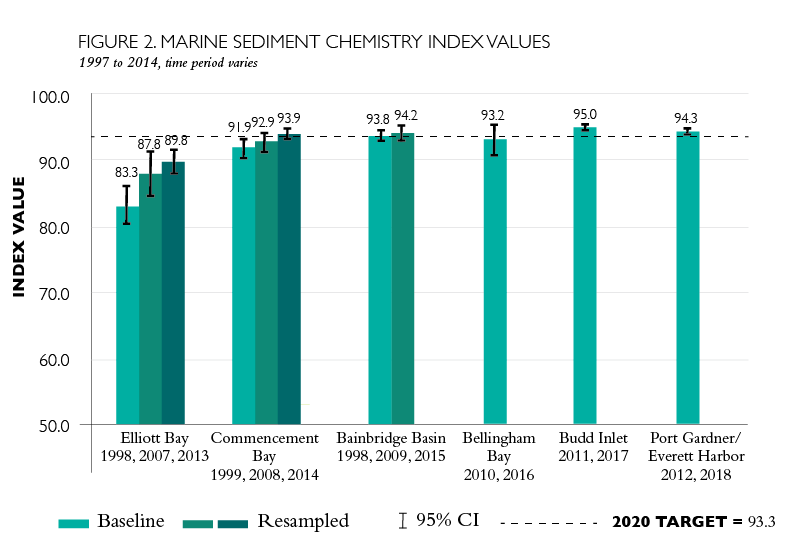
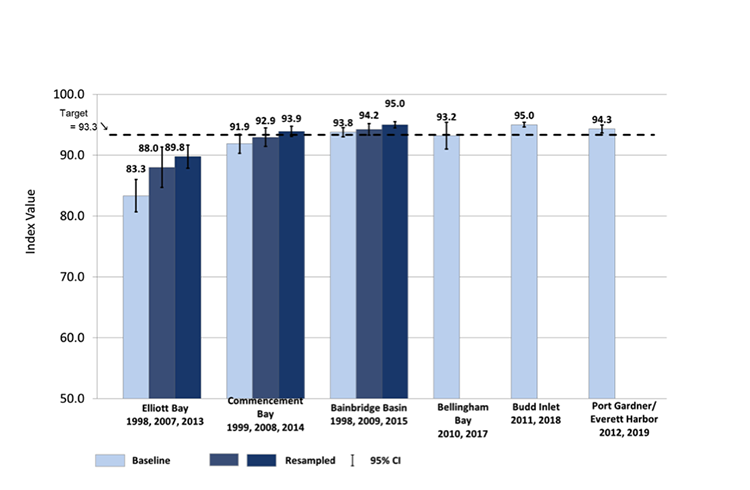
updates

diff --git a/includes/indicator_menu_test.html b/includes/indicator_menu_test.html
@@ -34,7 +34,6 @@ function MM_jumpMenu(targ,selObj,restore){ //v3.0
 			<option value="http://www.psp.wa.gov/vitalsigns/shoreline_armoring.php">Shoreline Armoring</option>
 			<option value="http://www.psp.wa.gov/vitalsigns/sound_behavior_index.php">Sound Stewardship</option>
 			<option value="http://www.psp.wa.gov/vitalsigns/summer_stream_flows.php">Summer Stream Flows</option>
-			<option value="http://www.psp.wa.gov/vitalsigns/swimming_beaches.php">Swimming Beaches</option>
 			<option value="http://www.psp.wa.gov/vitalsigns/toxics_in_fish.php">Toxics in Fish</option>
 		</select>
 	</form>

diff --git a/includes/marine_sediment_quality-title.html b/includes/marine_sediment_quality-title.html
@@ -11,7 +11,7 @@
 			</div>
 		</div>
 		<div id="vitalheaderrightphoto">
-			<div class="photoCredit">Data last updated on August 11, 2016<br />
+			<div class="photoCredit">Data last updated on Julne 28, 2017<br />
 			Photo Credit: Department of Ecology</div></div>
 	</div>
 	<div id="roundcornerbottom"><img src="img/rounded_rounded_bottom.jpg" width="960" height="20" /></div>

diff --git a/marine_sediment_quality_indicator1.php b/marine_sediment_quality_indicator1.php
@@ -43,11 +43,13 @@ $(function() {
 			<div> 
 				<!--*********************************AQUA HEADER*********************************-->
 				<div class="aquaBarHeader">What is the indicator? </div>
-				<h4 class="aqua">This indicator is the Sediment Chemistry Index.</h4>
-				<p>The Sediment Chemistry Index (SCI) is one component of the Sediment Quality Triad Index (SQTI), one of the other indicators for this Vital Sign. It combines data on the concentrations of a variety of chemicals for which state Sediment Quality Standards Chemical Criteria have been set into an overall index of chemical exposure (Table 1). Contaminants measured as part of the SCI include metals, polychlorinated biphenyls (PCBs), polynuclear aromatic hydrocarbons (PAHs), polybrominated diphenyl ethers (PBDEs – flame retardants), chlorinated pesticides, phthalates, some solvents, and various other pollutants. Higher index values indicate less exposure to chemicals and thus healthier sediments (Table 1).</p>
-<p>Analyses for newer chemicals of concern, such as dioxins, furans, endocrine disrupting chemicals, pharmaceuticals, personal care products, and perfluorinated chemicals, are not conducted as part of the Puget Sound Ecosystem Monitoring Program sediment component, and therefore not included in these Sediment Quality Dashboard Indicators.</p>
-<p>Tracking the SCI gives an indication of how concentrations of those chemicals in marine sediments change over time, primarily in response to anthropogenic input, such as stormwater runoff and direct discharge, as well as cleanup activities and passive burial as cleaner sediments settle over older, and sometimes more contaminated, sediments.</p>
-<h5>TABLE 1. CATEGORIES OF EXPOSURE TO CHEMICALS AND ASSOCIATED INDEX VALUES</h5>
+				<p>This indicator is the Sediment Chemistry Index.</p>
+				 <p>The Sediment Chemistry Index (SCI) is one component of the Sediment Quality Triad Index (SQTI), one of the other indicators for this Vital Sign. It combines data on the concentrations of 39 of 47 chemicals for which state Sediment Quality Standards Chemical Criteria have been set into an overall index of chemical exposure (Table 1). Contaminants measured that contribute to the SCI include metals, polychlorinated biphenyls (PCBs), polynuclear aromatic hydrocarbons (PAHs), phthalates, and various other pollutants. Higher index values indicate less exposure to chemicals and thus healthier sediments (Table 1).</p>
+				  <p>Results from other chemicals of concern, such as polybrominated diphenyl ethers (PBDEs), pesticides, dioxins, furans, endocrine disrupting chemicals, pharmaceuticals, personal care products, and perfluorinated chemicals, for which either no state Sediment Quality Standards have been set or measurements were not taken, are not incorporated into the SCI.</p>
+				  <p>Tracking the SCI gives an indication of how concentrations of selected chemicals in marine sediments change over time, primarily in response to anthropogenic input, such as stormwater runoff and direct discharge, as well as cleanup activities and passive burial as cleaner sediments settle over older, and sometimes more contaminated, sediments.</p>
+<h4 class="aqua">&nbsp;</h4>
+				<h3>TABLE 1.</h3> 
+				<h4>CATEGORIES OF EXPOSURE TO CHEMICALS AND ASSOCIATED INDEX VALUES</h4>
 
 				<img src="images/toxics_in_sediment_table_1.png" width="347" height="238" alt="Categories of exposure to chemicals and associated index values"/>
 				<h4 class="aqua">&nbsp;</h4>
@@ -55,14 +57,10 @@ $(function() {
 				<!--*********************************AQUA HEADER*********************************-->
 				<div class="aquaBarHeader">What are the targets? </div>
 				<h5>2020 target</h5>
-				<h4 class="aqua">Sediment Chemistry Index</h4>
-				<p>By 2020, all Puget Sound regions and bays achieve chemistry measures reflecting “minimum exposure” with Sediment Chemistry Index (SCI) scores >93.3.</p>
-				<h5><a href="http://www.psp.wa.gov/downloads/interimtargets/Marine Sediment Quality Interim Targets -FINAL.pdf">Interim targets (PDF)</a></h5>
+				<p>All Puget Sound regions and bays, as characterized by ambient monitoring, will achieve chemistry measures reflecting &ldquo;minimum exposure&rdquo; with the Sediment Chemistry Index (SCI) scores (i.e.,  SCI values &gt;93.3). </p>
+
                 <h5>Interim Targets:</h5>
-                <p>2014 Interim target:</p>
-<ol><li>All regions meet marine sediment targets for SCI.</li>
-<li>SCI conditions in Elliott Bay improved relative to 2007.</li>
-<li>Target conditions in Commencement Bay met in 2014.</li></ol>
+              <h5><a href="http://www.psp.wa.gov/downloads/interimtargets/Marine%20Sediment%20Quality%20Interim%20Targets%20-FINAL.pdf">Interim targets (PDF)</a></h5>
 
 			
 			</div>
@@ -74,23 +72,24 @@ $(function() {
 				<h5>Is the indicator making progress toward the 2020 target? </h5>
                 <p> <span><img src="images/status_not_changing.png" width="118" height="121" alt=""/>There was no significant trend for this indicator.</p>
                 <p>Overall, sediments in Puget Sound have been and continue to be in generally good condition with regard to the measured set of chemicals, except in Elliott Bay near Seattle. </p>
+<h5>Did the indicator meet its 2016 interim target?</h5>
+<ul>
+  <li>Sediment Chemistry Index scores for all regions, and most bays continue to meet or exceed the target value.  Since 1997, all of the eight sampled regions and five of six urban bays met the SCI target value, and index values in most areas changed little since the late 1990s.</li>
+  <li>SCI scores have improved incrementally and significantly in Elliott Bay since 1998, but not enough to reach the target value.  </li>
+  <li>Commencement Bay SCI scores have increased over time and are above the target value.</li>
+  <li>SCI scores for Bainbridge Basin increased slightly between 2009 and 2015, and the target value continues to be met.</li>
+  <li>Sampling in 2016 in Bellingham Bay was delayed until 2017, so 2016 SCI target conditions cannot be evaluated until 2018.  </li>
+</ul>
+<p>Given that sediment contamination generally changes very slowly, we expect most areas currently meeting the target to continue to do so through 2020 unless contaminant inputs to the areas increase. It is possible that the target may eventually be reached in Elliott Bay if conditions there continue to improve.<!-- TABLE 1 -->			</p>
 
-<h5>Did the indicator meet its 2014 interim target?</h5>
-<p>Because all the regions and Commencement Bay met their target values, except for Elliott Bay, which did not improve enough, the interim targets are only partly met.</p>
-<ol><li>Sediment Chemistry Index scores for all regions, and most bays either meet or exceed the target value.</li>
-<li>Since 1997, all of the eight sampled regions and five of six urban bays met the Sediment Chemistry Index (SCI) target value, and index values in most areas changed little since the late 1990s.</li>
-<li>Conditions have improved significantly in Elliott Bay since 1998, but not enough to reach the target value. Although the index value is slightly higher in 2013 than in 2007 in Elliott Bay, the difference is not statistically significant.</li>
-<li>The value measured for Admiralty Inlet dropped significantly when resampled in 2014, but still remained above the target value.</li>
-<li>The values for Commencement Bay increased slightly between 2008 and 2014, and the target value is not met.</li></ol>
-<p>Given that sediment contamination generally changes very slowly, we expect most areas currently meeting the target to continue to do so through 2020 unless contaminant inputs to the areas increase. It is possible that the target may eventually be reached in Elliott Bay if conditions there continue to improve.</p>
-<!-- TABLE 1 -->
-				<table width="600" border="1" cellspacing="0" cellpadding="0" class="vstable">
-					<caption>
-					TABLE 2. PROGRESS TOWARD 2014 INTERIM TARGET
-					</caption>
-					<thead>
+<h3>
+				TABLE 2.</h3> <h4>PROGRESS TOWARD 2016 INTERIM TARGET
+	</h4>
+<table width="600" border="1" cellspacing="0" cellpadding="0" class="vstable">
+			
+		  <thead>
 						<tr>
-							<th>2014 INTERIM TARGET</th>
+							<th>2016 INTERIM TARGET</th>
 							<th>WAS IT MET?</th>
 							<th>EXPLANATION</th>
 						</tr>
@@ -99,34 +98,38 @@ $(function() {
 						<tr>
 							<td>All regions meet marine sediment targets for SCI.</td>
 							<td>Yes</td>
-							<td>All regions met the target values for SCI in their last round of sampling, as well as all those prior.</td>
+							<td>All regions met the target value for SCI in their last round of sampling, as well as in the Baseline sampling.</td>
 						</tr>
                         <tr>
-							<td>SCI conditions in Elliott Bay improved relative to 2007.</td>
-							<td>No</td>
-							<td>Elliot Bay index value improved slightly in 2013, but the change was not significant. Also, the current index still does not meet target value.</td>
+							<td>Target conditions for SCI are met in Bainbridge Basin in 2015.</td>
+							<td>Yes</td>
+							<td>Bainbridge Basin sediments continued to meet the target value for SCI in 2015.</td>
 						</tr>
                         <tr>
-							<td>Target conditions in Commencement Bay met in 2014.</td>
-							<td>No</td>
-							<td>Commencement Bay met the target value in 2014.</td>
+							<td>Target conditions for SCI are met in Bellingham Bay in 2016.</td>
+							<td>Yes</td>
+							<td>Sampling in 2016 in Bellingham Bay was delayed until 2017, so 2016 SCI target conditions cannot be evaluated until 2018.  .</td>
 						</tr>
 					</tbody>
-				</table><br />
-				<!-- END TABLE 1 --> 
-<div class="aquaBarHeader">Latest Data</div>
-				<img src="images/marine-sediment-ci1.png" width="800" height="555" alt="Sediment Chemistry Index Scores" />
-                <p><em>Source: Washington State Department of Ecology, Marine Sediment Monitoring Team</em></p>
-                <img src="images/marine-sediment-ci2.png" width="800" height="555" alt="Sediment Chemistry Index Scores" />
-              <p><em>Source: Washington State Department of Ecology, Marine Sediment Monitoring Team</em></p>
-			
-				
-				<p><strong>Citations:</strong>Long, E.R., S. Aasen, M. Dutch, K. Welch, and V. Partridge and D. Shull. 2007. Relationships between the Composition of the Benthos and Sediment and Water Quality Parameters in Hood Canal, WA: Task IV – Hood Canal Dissolved Oxygen Program. Washington State Department of Ecology Publication No. 07-03-40, Olympia, WA and Western Washington University, Bellingham, WA 197 pp. + appendices </p>
-                
+				</table>
+				<h5>Note:</h5>  
+				<ul><li>Ecology’s Marine Sediment Monitoring Team (MSMT) is redesigning the PSEMP Sediment Component monitoring program.  We have made the decision to not complete a third round of regional sampling which would have commenced in 2016.  Therefore, there are no further additions to SCI regional graphics after 2014.</li></ul>
 
-                <!--*********************************AQUA HEADER*********************************-->
+			  <!-- END TABLE 1 --> 
+<div class="aquaBarHeader">Latest Data</div>
+			
+				<h3>FIGURE 1.</h3> <h4>MARINE SEDIMENT CHEMISTRY INDEX VALUES FOR EIGHT PUGET SOUND REGIONS<br />
+				<em>1997 to 2014, time period varies</em></h4>
+				<img src="images/marine-sediment-ci1.png" alt="Sediment Chemistry Index Scores" />
+				<blockquote><p><em>Source: Washington State Department of Ecology, Marine Sediment Monitoring Team</em></p></blockquote>
+               	<h3>FIGURE 2.</h3> <h4>MARINE SEDIMENT CHEMISTRY INDEX VALUES FOR SIX PUGET SOUND URBAN BAYS<br />
+				<em>1997 to 2015, time period varies</em></h4>
+                <img src="images/marine-sediment-ci2.png"  alt="Sediment Chemistry Index Scores" />
+			  <blockquote><p><em>Source: Washington State Department of Ecology, Marine Sediment Monitoring Team</em></p>
+
+			    <!--*********************************AQUA HEADER*********************************-->			  </blockquote>
 			  <div class="aquaBarHeader">Maps</div>
-              <h5>FIGURE 3. MARINE SEDIMENT MONITORING REGIONS AND URBAN BAYS</h5>
+				<h3>FIGURE 3.</h3> <h4>MARINE SEDIMENT MONITORING REGIONS AND URBAN BAYS</h4>
 				<img src="images/toxics_in_sediment_map.png" width="597" height="649" alt="Marine sediment monitoring regions and urban bays" /> </div>
 		</div>
 	</div>

diff --git a/marine_sediment_quality_indicator3.php b/marine_sediment_quality_indicator3.php
@@ -42,47 +42,95 @@ $(function() {
 			<div> 
 				<!--*********************************AQUA HEADER*********************************-->
 				<div class="aquaBarHeader">What is the indicator? </div>
-				<h4 class="aqua">This indicator is the Sediment Quality Triad Index.</h4>
-				<p>Sediment quality is a key indicator of a healthy ecosystem, and high-quality sediments support a diverse and important biological community.</p> 
-<p>Much of the floor of Puget Sound is covered with sediments—the gravel, sand, silt, and clay that has accumulated over years, decades, centuries, and even millennia. High-quality sediments support a diverse and important biological community. </p>
-<p>The Sediment Quality Triad Index (SQTI) measures three aspects of sediment quality in Puget Sound. The SQTI includes: </p>
-<ol><li>Chemical contamination, as described in the Sediment Chemistry Index (SCI), which is also an indicator for this Vital Sign;</li>
-<li>Toxicity of the sediments to marine life, which measures the combined (synergistic) effects of those chemicals and other sediment characteristics on laboratory test organisms; and </li>
-<li>Diversity of the benthos, which measures the total number of organisms and total number of species of small invertebrates living in the sediments and reflects the actual biological condition of the sediments as a response to all possible human-caused and natural stressors, whether measured or not. </li></ol>
+				<p>This indicator is the Sediment Quality Triad Index.</p>
+				<p>Sediment quality is a key indicator of a healthy ecosystem, and high-quality sediments support a diverse and important biological community. </p>
+			  <p>Much of the floor of Puget Sound is covered with sediments—the gravel, sand, silt, and clay that has accumulated over years, decades, centuries, and even millennia. High-quality sediments support a diverse and important biological community. </p>
+			  <p>The Sediment Quality Triad Index (SQTI) measures three aspects of sediment quality in Puget Sound. The SQTI includes: </p>
+			  <ol><li>Chemical contamination, as described in the Sediment Chemistry Index (SCI), which is also an indicator for this Vital Sign;</li>
+				<li>Toxicity of the sediments to marine life, which measures the combined (synergistic) effects of those chemicals and other sediment characteristics on laboratory test organisms; and </li>
+<li>Diversity of the benthos, which measures the total number of organisms and total number of species of small invertebrates living in the sediments and reflects the actual biological condition of the sediments as a response to all possible human-caused and natural stressors, whether measured or not. 
+	The SQTI ranges from 1-100, with higher index values indicating higher quality sediments (Table 1). </li></ol>
 
-<p>The SQTI ranges from 1-100, with higher index values indicating higher quality sediments (Table 1). </p>
-<h5>TABLE 1. CLASSIFICATION OF SEDIMENT QUALITY BASED ON SQTI SCORES</h5>
+				<h3>TABLE 1.</h3> <h4>CLASSIFICATION OF SEDIMENT QUALITY BASED ON SQTI SCORES</h4>
 				<img src="images/toxics_in_sediment_table_2.png" width="677" height="312" alt="Classification of Sediment quality based on SQTI scores" />
-				<p><em>Source: Washington Department of Ecology, Marine Sediment Monitoring Team</em></p>
+				<blockquote><p><em>Source: Washington Department of Ecology, Marine Sediment Monitoring Team</em></p></blockquote>
 				<p><strong>Citations:</strong> Dutch, M.E., E.R. Long, S. Weakland, V. Partridge, and K. Welch. 2012. Sediment Quality Indicators for Puget Sound. Indicator definitions, derivations, and graphic displays. Washington State Department of Ecology. Unpublished document. 8 pp.</p>
 				
 				<!--*********************************AQUA HEADER*********************************-->
 				<div class="aquaBarHeader">What are the targets? </div>
 				<h5>2020 target </h5>
-				<h4 class="aqua">Sediment Quality Triad Index</h4>
-				<p>All Puget Sound regions and bays, as characterized by ambient monitoring, achieve the following: Sediment Quality Triad Index (SQTI) scores reflect “unimpacted” conditions (i.e., SQTI values >81).</p>
-                <h5>Interim targets:</h5>
-			<h5><a href="http://www.psp.wa.gov/downloads/interimtargets/Marine Sediment Quality Interim Targets -FINAL.pdf">Interim targets (PDF)</a></h5>
+				<p>All Puget Sound regions and bays, as characterized by ambient monitoring, will achieve Sediment Quality Triad Index (SQTI) scores reflecting &ldquo;unimpacted&rdquo; conditions (i.e., SQTI values &gt;81).                </p>
+				<h5>2016 Interim target:</h5>
+			<h5><a href="http://www.psp.wa.gov/downloads/interimtargets/Marine%20Sediment%20Quality%20Interim%20Targets%20-FINAL.pdf">Interim targets (PDF)</a></h5>
 			
-            <p>2014 Interim targets:</p>	
-            
-            <ol><li>SQTI conditions in Elliott Bay improved relative to 2007</li>
-            <li>Target conditions in Commencement Bay met in 2014</li></ol>
+            <p>&nbsp;</p>
 				<!--*********************************AQUA HEADER*********************************--></div>
 			
 			<!--*********************************FOLD 03*********************************-->
 			<h3><a href="#!">Progress summary and data</a></h3>
 			<div> 
 				<!--*********************************AQUA HEADER*********************************-->
-				<div class="aquaBarHeader">Data</div>
+				
+				<h5>Is the indicator making progress toward the 2020 target? </h5>
+				<p> <span><img src="images/status_mixed_results.png" width="118" height="121" alt=""/>The results for this indicator are mixed.  </p>
+				<p>Sediment Quality Triad Index results suggest a mixed portrait of Puget Sound sediment quality. </p>
+				<ul><li>Five of eight regions and three of six urban bays sampled since 1997 currently have mean SQTI scores that statistically meet the target value of 81.  Three regions, Hood Canal, the San Juan Islands, and the Eastern Strait of Juan de Fuca, and three bays, Bainbridge Basin, Bellingham Bay, and Budd Inlet, do not meet the target value. </li>
+					<li>Among eight regions and three bays that were re-sampled from 2004 – 2015, SQTI scores improved in Whidbey Basin, South Sound, the San Juan Islands, and Elliott Bay, but declined in the other eight areas. This decline in SQTI values is primarily due to declines in the number and types of benthic invertebrates, resulting in lower SQTI scores. Two bays, Bellingham Bay and Budd Inlet, for which baseline sampling was first conducted in 2010 and 2011, respectively, also did not meet the SQTI target value due to low numbers and types of benthic invertebrates.</li>
+					<li>A third round of sampling was conducted in Elliott Bay in 2013, Commencement Bay in 2014, and Bainbridge Basin in 2015. On a positive note, the SQTI scores improved and exceeded the target value in Elliott Bay and Commencement Bay. As a result, the 2014 interim targets were all met.  The SQTI score for Bainbridge Basin in 2015, however, declined, fell below the target value, and did not meet the 2016 interim target.  Again, the declining score was due to lower numbers and types of benthic invertebrates.</li>
+					<li>Hood Canal was not resampled in 2016, so the 2016 interim SQTI target could not be evaluated.</li></ul>
+					
+				<h5>Did the indicator meet its 2016 interim target?</h5>
+				<ul><li>Hood Canal was not resampled in 2016, so the 2016 interim target could not be evaluated.</li>
+					<li>The SQTI score for Bainbridge Basin in 2015 fell below the target value, and did not meet the 2016 interim target due to lower numbers and types of benthic invertebrates.</li></ul>
+					
+				<h3>TABLE 1.</h3> <h4>PROGRESS TOWARD 2016 INTERIM TARGET</h4>
+<table width="600" border="1" cellspacing="0" cellpadding="0" class="vstable">
+					
+					<thead>
+						<tr>
+							<th>2016 INTERIM TARGET</th>
+							<th>WAS IT MET?</th>
+							<th>EXPLANATION</th>
+						</tr>
+					</thead>
+					<tbody>
+						<tr>
+							<td>Hood Canal SQTI in 2016 meets targets.</td>
+							<td>NA - Sampling discontinued</td>
+							<td>Hood Canal was not resampled in 2016, so the 2016 interim target could not be evaluated. </td>
+						</tr>
+                       <tr>
+							<td>Target conditions in Bainbridge Basin met in 2015.</td>
+							<td>No</td>
+							<td>The SQTI score for Bainbridge Basin in 2015 fell below the target value, and did not meet the 2016 interim target due to lower numbers and types of benthic invertebrates. </td>
+						</tr>
+                        
+					</tbody>
+					
+				</table><br />
+
+
+
+		
+				<div class="aquaBarHeader">Latest Data</div>
+				<h3>FIGURE 1.</h3> <h4>MARINE SEDIMENT QUALITY TRIAD INDEX VALUES FOR EIGHT PUGET SOUND REGIONS<br />
+				<em>1997 to 2014, time period varies</em></h4>
 				<img src="images/marine-sediment-sqti1.png" />
-                <p><em>Source: Washington State Department of Ecology, Marine Sediment Monitoring Team</em></p>
-                <img src="images/marine-sediment-sqti2.png" />
-                <p><em>Source: Washington State Department of Ecology, Marine Sediment Monitoring Team</em></p>
+				<blockquote><p><em>Source: Washington State Department of Ecology, Marine Sediment Monitoring Team</em></p></blockquote>
+				<h3>FIGURE 2.</h3> <h4>MARINE SEDIMENT QUALITY TRIAD INDEX VALUES FOR SIX PUGET SOUND URBAN BAYS<br />
+				<em>1997 to 2015, time period varies</em></h4>
+                               <img src="images/marine-sediment-sqti2.png" />
+
+				<blockquote><p><em>Source: Washington State Department of Ecology, Marine Sediment Monitoring Team</em></p></blockquote>
+				
+				<h5>Note:</h5>  
+				<ul><li>Ecology’s Marine Sediment Monitoring Team (MSMT) is redesigning the PSEMP Sediment Component monitoring program.  We have made the decision to not complete a third round of regional sampling which would have commenced in 2015.  Therefore, there are no further additions to SQTI regional graphics after 2014.</li>
+					<li>Ecology’s MSMT has also made the decision to discontinue toxicity testing during annual urban bay work, therefore the SQTI cannot be calculated after 2015, when the last round of toxicity testing was conducted for Bainbridge Basin sediments.</li></ul>
+
 				
 				<!--*********************************AQUA HEADER*********************************-->
 				<div class="aquaBarHeader">Maps</div>
-                <h5>FIGURE 3. MARINE SEDIMENT MONITORING REGIONS AND URBAN BAYS</h5>
+				<h3>FIGURE 3.</h3> <h4>MARINE SEDIMENT MONITORING REGIONS AND URBAN BAYS</h4>
 				<img src="images/toxics_in_sediment_map.png" width="597" height="649" alt="Marine sediment monitoring regions and urban bays" /> </div>
 		</div>
 	</div>

diff --git a/marine_sediment_quality_indicator2.php b/marine_sediment_quality_indicator2.php
@@ -42,19 +42,21 @@ $(function() {
 			<div> 
 				<!--*********************************AQUA HEADER*********************************-->
 				<div class="aquaBarHeader">What is the indicator? </div>
-				<h4 class="aqua">This indicator is Sediment Quality Standards.</h4>
-				<p>This indicator is the percent of individual chemical measurements that exceed the Washington Sediment Quality Standards (SQS), which is related to the Sediment Chemistry Index, another indicator for the marine sediment Vital Sign. </p>
-<p>SQS values have been determined for a total of 47 chemicals in Puget Sound. Of those, 39 are included in the SCI and evaluated for this indicator.
-</p>
+				<p>
+					This indicator is Sediment Quality Standards.</p>
+				<p>This indicator is the percent of individual chemical measurements that exceed the Washington Sediment Quality Standards (SQS), which is related to the Sediment Chemistry Index, another indicator for the marine sediment Vital Sign. </p>
+				<p>SQS values have been determined for a total of 47 chemicals in Puget Sound. Of those, 39 are included in the SCI and evaluated for this indicator.</p>
 				<h4 class="aqua">&nbsp;</h4>
 				
 				<!--*********************************AQUA HEADER*********************************-->
 				<div class="aquaBarHeader">What are the targets? </div>
 				<h5>2020 target</h5>
-				<h4 class="aqua">Have no sediment chemistry measurements exceeding the Sediment Quality Standards (SQS) set for Washington State. </h4>
-			<h5>Interim Targets</h5>
-            <p>There are no interim targets set for this indicator.</p>
-				<h5><a href="http://www.psp.wa.gov/downloads/interimtargets/Marine%20Sediment%20Quality%20Interim%20Targets%20-FINAL.pdf">Interim targets (PDF)</a></h5>
+				<ul>
+				  <li>All Puget Sound regions and bays, as characterized by ambient monitoring, will have no measurements exceeding the Sediment Quality Standards (SQS) chemical criteria set for Washington State. </li>
+			  </ul>
+				<h4 class="aqua">&nbsp;</h4>
+			<h5>Interim Targets			  </h5>
+			<h5><a href="http://www.psp.wa.gov/downloads/interimtargets/Marine%20Sediment%20Quality%20Interim%20Targets%20-FINAL.pdf">Interim targets (PDF)</a></h5>
 				
 				
 			</div>
@@ -66,18 +68,32 @@ $(function() {
 				<h5>Is the indicator making progress toward the 2020 target? </h5>
 				 <p> <span><img src="images/status_getting_better.png" width="118" height="121" alt=""/>Yes, this indicator has made gains relative to the baseline reference.</span>
 				<p>Although the target is not fully met across all of Puget Sound, recent improvements suggest progress toward the target:</p>
-<ul><li>The percent of individual chemicals exceeding SQS since 1997 is typically small (mostly less than 1 percent) except for Central Sound, Elliott Bay, and Commencement Bay, where the number still never exceeded 6 percent. </li>
-<li>Even fewer chemicals exceeded state SQS in the second round of sampling, with four regions dropping to zero, now meeting the target value in those areas. </li>
-<li>Budd Inlet and the Port Gardner/Everett Harbor urban embayments are also at zero.</li></ul>
+                <ul>
+                  <li>The percent of individual chemicals exceeding SQS since 1997 is typically small (mostly less than 1 percent) except for Central Sound, Elliott Bay, and Commencement Bay, where the number still never exceeded 6 percent. </li>
+                  <li>Even fewer chemicals exceeded state SQS in the second round of sampling, with four regions dropping to zero, now meeting the target value in those areas. </li>
+                  <li>Budd Inlet and the Port Gardner/Everett Harbor urban embayments are also at zero.</li>
+                  <li>Values calculated for the third round of sampling in Bainbridge Basin in 2015 remain unchanged.</li>
+                </ul>
 <div class="aquaBarHeader">Latest Data</div>
+				<h3>FIGURE 1.</h3> <h4>PERCENT OF CHEMICALS EXCEEDING SEDIMENT QUALITY STANDARDS<br />
+				<em>1997 – 2015, time period varies</em></h4>
 <img src="images/marine-sediment-sqs.png" />
-<p>L<strong>Left panel:</strong> Values for eight Puget Sound regions; <strong>Right panel:</strong> Values for six Puget Sound urban bays</p>
-<p><em>Source: Washington State Department of Ecology, Marine Sediment Monitoring Team
-</em></p>
+<img src="images/marine-sediment-sqs2.png" />
+
+<blockquote><p>Top panel: Values for eight Puget Sound regions; Bottom panel: Values for six Puget Sound urban bays<br />
+<em>Source: Washington State Department of Ecology, Marine Sediment Monitoring Team
+
+	</em></p></blockquote>
+				<h5>Did the indicator meet its 2016 interim target?</h5>
+				<ul><li>Target conditions remained unchanged, and were not met in Bainbridge Basin in 2015.</li></ul>
+
+				<h5>Note:</h5>  
+				<ul><li>Ecology’s Marine Sediment Monitoring Team (MSMT) is redesigning the PSEMP Sediment Component monitoring program.  We have made the decision to not complete a third round of regional sampling which would have commenced in 2015.  Therefore, there are no further additions to SQS regional graphics after 2014.</li></ul>
+
 
 				<!--*********************************AQUA HEADER*********************************-->
 				<div class="aquaBarHeader">Maps</div>
-                <h5>FIGURE 2. MARINE SEDIMENT MONITORING REGIONS AND URBAN BAYS</h5>
+				<h3>FIGURE 2.</h3> <h4>MARINE SEDIMENT MONITORING REGIONS AND URBAN BAYS</h4>
 				<img src="images/toxics_in_sediment_map.png" width="597" height="649" alt="Marine sediment monitoring regions and urban bays" /> </div>
 		</div>
 	</div>

diff --git a/outdoor_activities_indicator1.php b/outdoor_activities_indicator1.php
@@ -66,7 +66,7 @@ $(function() {
                 <p>Since 2004, many local bacteria problems have been identified and corrected. Overall, there are year-to-year fluctuations in marine water quality at swimming beaches, but no clear trend in progress toward the goal. </p>
 <h5>Did the indicator meet its 2016 interim target?</h5>
 <p>This indicator did not meet its 2016 interim target.</p>
-<h5>TABLE 1. PROGRESS TOWARD 2016 INTERIM TARGET</h5>
+				<h3>TABLE 1.</h3> <h4>PROGRESS TOWARD 2016 INTERIM TARGET</h4>
 <table width="600" border="1" cellspacing="0" cellpadding="0" class="vstable">
 					
 					<thead>
